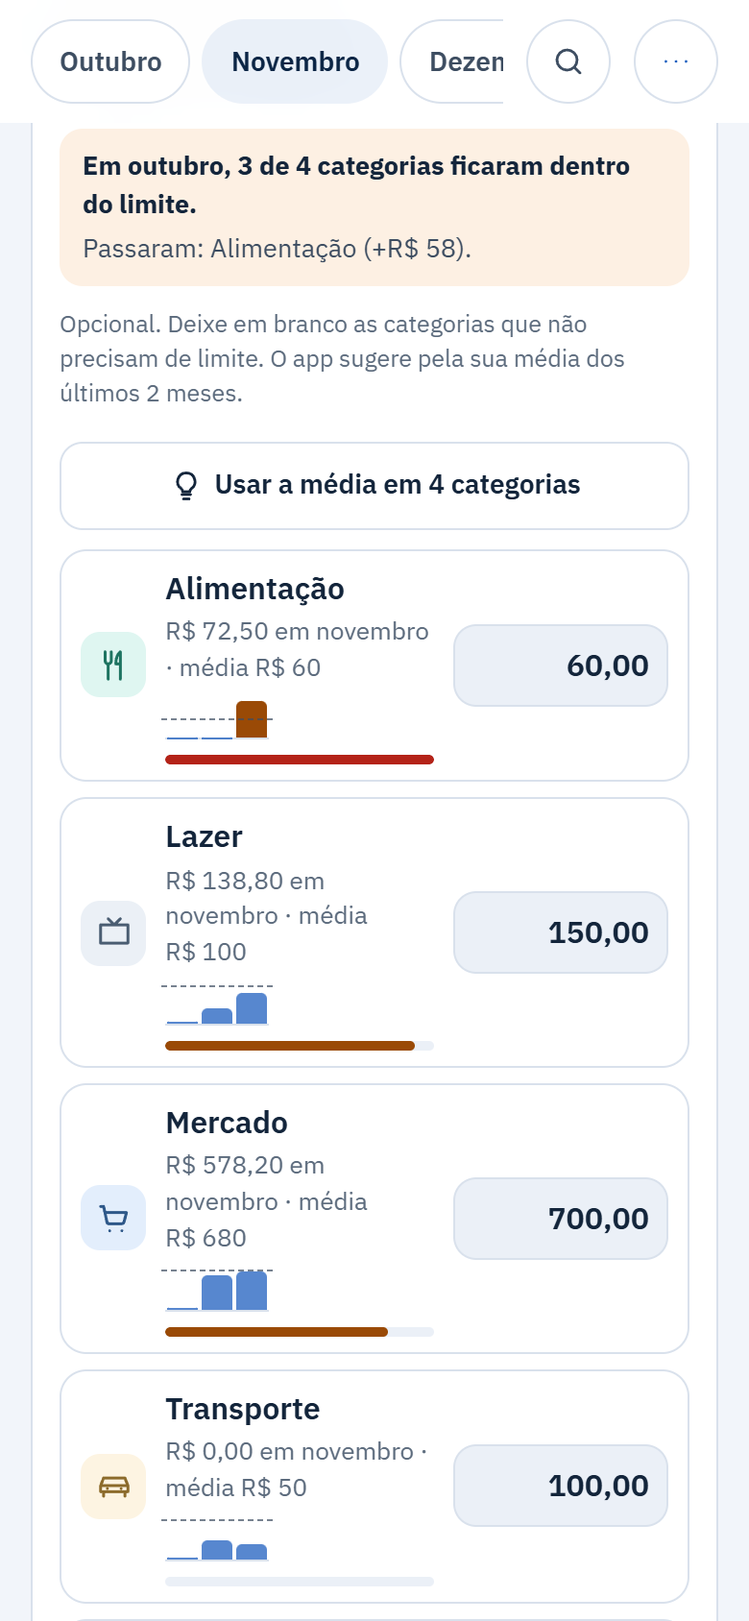
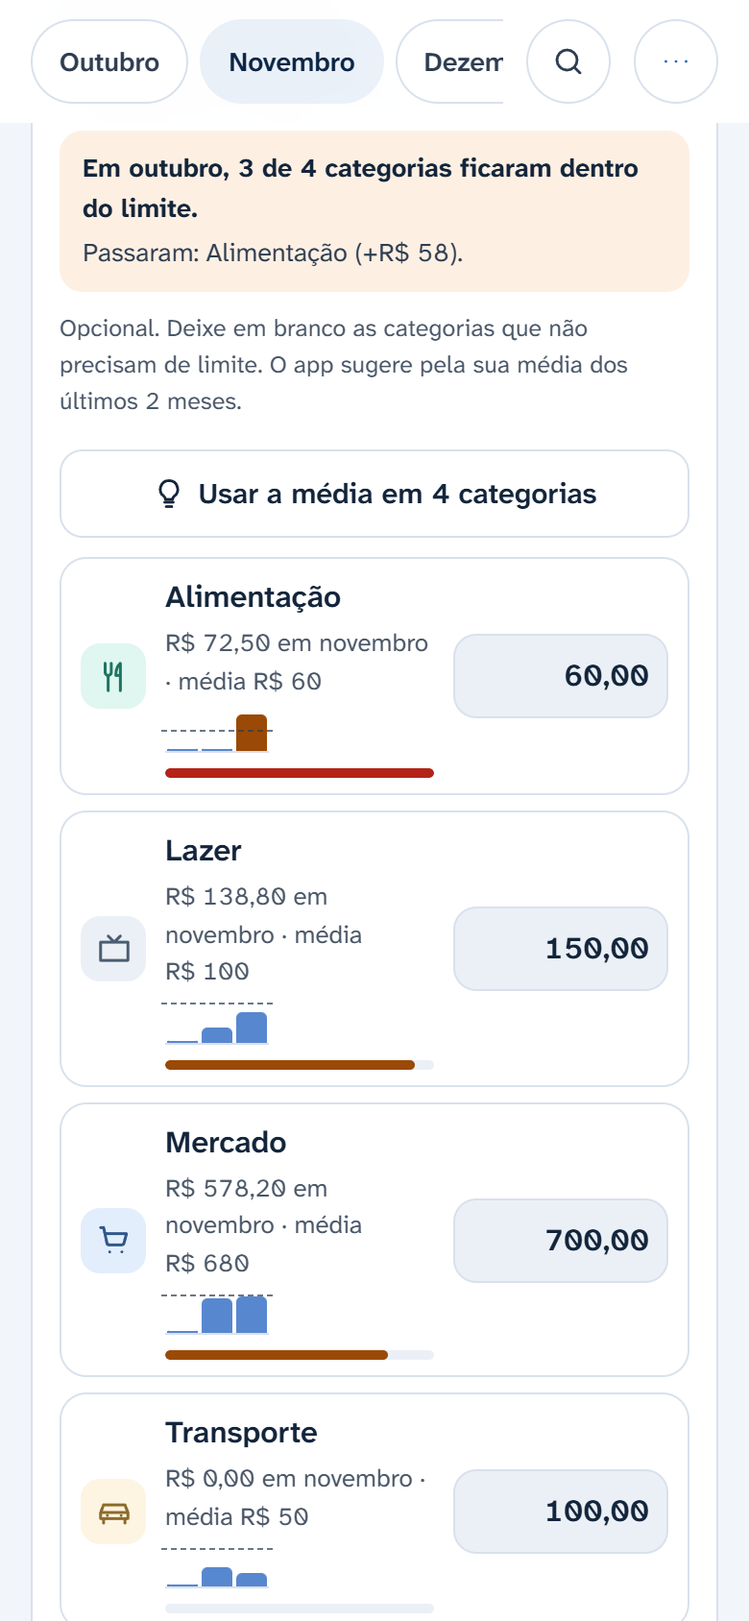
v261: letra mais fácil de ler e cinzas mais escuros (app e site); Iniciar sempre no alto, com categoria e km perguntados na primeira vez; menu Mais enxuto; um nome só para Lançar outro dia

diff --git a/js/app.js b/js/app.js
@@ -3756,7 +3756,7 @@ const GRUPOS_FERR = [
   { titulo: "Guardar e planejar", itens: [
     { id: "ordem", k: "atraso atrasada devendo negativo vermelho recomecar zerar virar pagina equilibrar recuperar reserva imprevisto buraco", ico: "cofre", t: "Pôr o mês em ordem", s: "Contas, atrasos, um jeito leve de recomeçar e sua reserva" },
     { id: "revisao", k: "fechar mes balanco resumo", ico: "grafico", t: "Revisão do mês", s: "3 passos: como foi, onde ajustar e quanto guardar" },
-    { id: "desafio", k: "economizar guardar semanal poupar cofrinho", ico: "alvo", t: "Desafio de economia", s: "Guarde um valor por semana e acompanhe" },
+    { id: "desafio", k: "economizar guardar semanal poupar cofrinho", ico: "alvo", t: "Cofrinho da semana", s: "Guarde um valor por semana e acompanhe" },
     { id: "calc", k: "ferias decimo terceiro juros parcelas rendimento investir divida simulador", ico: "calc", t: "Calculadoras", s: "Rendimento, parcelas, juros, férias e 13º" },
     { id: "dica", k: "habito economia ideia", ico: "luz", t: "Dicas para guardar dinheiro", s: "Um hábito pequeno por dia" }] },
   { titulo: "Entender e comemorar", itens: [
@@ -3780,17 +3780,16 @@ const HUBS = {
   conferir: { ico: "lupa", t: "Conferir meus lançamentos", s: "Tirar o que está repetido e dar categoria ao que ficou em \"Outros\"", k: "arrumar limpar corrigir revisar conferir repetido duplicado outros categoria transferencia",
     intro: "Deixe os lançamentos certos para os números do app baterem com a sua vida.", itens: ["arrumar", "revisar"] },
   analise: { ico: "rumo", t: "Como foi o seu mês", s: "Revisão, para onde foi o dinheiro, o ano e as assinaturas", k: "analise relatorio resumo revisao fechar balanco atraso ordem comparar evolucao ano assinaturas conquistas onde gastei",
-    intro: "Escolha o que você quer entender sobre o seu dinheiro.", itens: ["revisao", "graficos", "pof", "ordem", "ganhogasto", "desemp", "ano", "assin", "conq"] },
+    intro: "Escolha o que você quer entender sobre o seu dinheiro.", itens: ["revisao", "pof", "ano", "assin"] },
   baixar: { ico: "baixar", t: "Exportar e backup", s: "Relatório em Excel, PDF ou CSV e cópia de segurança", k: "excel pdf csv planilha exportar baixar backup restaurar seguranca",
     intro: "Leve os seus dados com você ou guarde uma cópia.", itens: ["btnExport", "copia"] },
   ajuda: { ico: "ajuda", t: "Ajuda", s: "Como usar, o que mudou e como falar com a gente", k: "ajuda duvida tutorial suporte novidades versao sugestao feedback problema",
     intro: "Dúvidas, novidades e sugestões.", itens: ["btnAjuda", "novidades", "btnSugerir"] },
 };
 const GRUPOS_MAIS = [
-  { titulo: "Seu dia a dia", ids: ["motorista", "mercado", "planos"] },
+  { titulo: "Seu dia a dia", ids: ["motorista", "mercado"] },
   { titulo: "Meu mês", ids: ["analise", "conferir", "msg"] },
-  { titulo: "Ferramentas", ids: ["veiculo", "casa", "calc", "desafio", "dica"], fechado: true },
-  { titulo: "Levar com você", ids: ["share", "baixar"], fechado: true },
+  { titulo: "Ferramentas", ids: ["calc", "share", "baixar"], fechado: true },
 ];
 const TODAS_FERR = () => [...GRUPOS_FERR.flatMap((g) => g.itens), ...Object.entries(HUBS).map(([id, h]) => ({ id, ...h }))];
 function hubTela(id) {
@@ -5595,6 +5594,8 @@ function htmlFraseMot({ m, hj, doDia, meta, alc, ritmo, regra, semContas, ativa 
   const comemora = !meta.coberto && doDia.ganho >= meta.brutoDia && S.metaBatida !== hj, cats_ = categoriasDoPerfil(motDados().perfil), catAtual = categoriaAtual();
   const catFixa = cats_.includes(motDados().perfil?.categoria), pn = painelAtual(m.painel, m.turnos), oleo = avisoOleo(pn?.odo, m.painel);
   const catsVis = [catAtual, ...cats_.filter((k) => k !== catAtual)].filter(Boolean).slice(0, 3), catsResto = cats_.filter((k) => !catsVis.includes(k));
+  const catHtml = `${cats_.length < 2 ? "" : catFixa ? `<details class="mot-cat-det"><summary>Categoria: <b>${esc(catAtual)}</b><span>Trocar</span></summary>${`<div class="ds-chips" role="group" aria-label="Categoria do seu carro">${catsVis.map((k) => `<button type="button" data-mot-cat="${esc(k)}" aria-pressed="${k === catAtual}">${esc(k)}</button>`).join("")}${catsResto.length ? `<select class="mot-cat-mais" data-mot-cat-mais aria-label="Outra categoria"><option value="">Outra</option>${catsResto.map((k) => `<option>${esc(k)}</option>`).join("")}</select>` : ""}</div>`}<small>Troque só se mudar de carro ou de categoria.</small></details>` : `<p class="mot-cat-dica">Em qual categoria o seu carro roda? Escolha uma vez: o app lembra.</p>${`<div class="ds-chips" role="group" aria-label="Categoria do seu carro">${catsVis.map((k) => `<button type="button" data-mot-cat="${esc(k)}" aria-pressed="${k === catAtual}">${esc(k)}</button>`).join("")}${catsResto.length ? `<select class="mot-cat-mais" data-mot-cat-mais aria-label="Outra categoria"><option value="">Outra</option>${catsResto.map((k) => `<option>${esc(k)}</option>`).join("")}</select>` : ""}</div>`}`}`, pnHtml = `${pn ? `<div class="mot-painel"><p>Painel do carro: <b>${odoTxt(pn.odo)} km</b><button type="button" class="link" id="motPainelMuda">Mudou? Atualizar</button></p><label class="mot-dia-odo" id="motOdoWrap" hidden>Km no painel agora<input id="motOdoIni" inputmode="numeric" maxlength="9" autocomplete="off" placeholder="ex.: ${odoTxt(pn.odo)}"></label><p class="mot-trip">Antes de sair, zere o hodômetro parcial (o &quot;trip&quot;) do carro. No fim do dia, ele mostra quantos km você rodou.</p>${oleo ? `<button type="button" class="mot-oleo ${oleo.nivel}" id="motOleo">${oleo.nivel === "passou" ? `Troca de óleo passou ${odoTxt(-oleo.falta) || 0} km. Trocou? Toque aqui.` : `Troca de óleo em ${odoTxt(oleo.falta)} km`}</button>` : `<button type="button" class="link mot-oleo-novo" id="motOleo">Avisar a troca de óleo</button>`}</div>` : `<label class="mot-dia-odo">Km no painel do carro <small>(só desta vez: depois o app lembra)</small><input id="motOdoIni" inputmode="numeric" maxlength="9" autocomplete="off" placeholder="ex.: 84.120"></label>`}`;
+  const precisaPergunta = (cats_.length >= 2 && !catFixa) || !pn;   // primeira jornada: categoria e km do painel são perguntados ao tocar em Iniciar
   if (comemora) { S.metaBatida = hj; vibra(40); }
   return `<section class="mot-dia cheia${comemora ? " comemora" : ""}" aria-label="Seu dia como motorista"><div class="mot-dia-topo"><small>${dataPorExtenso(hj)}</small><button type="button" class="mot-dia-pill" data-mot-sub="desafios">Desafios</button></div>${ativa ? "" : htmlPerguntaDia(m)}${compacto ? `<p class="mot-meta-linha ocultavel">${semContas ? "Cadastre as contas do mês para ter a meta de hoje." : meta.coberto ? "As contas do mês estão cobertas: hoje é sobra." : `Meta de hoje <b>${brl(meta.brutoDia)}</b>`}${regra ? ` · corridas de <b>${brl(regra.boa)}/km</b> ou mais` : ""}</p>` : `<h2 class="ocultavel">${f.titulo}</h2>`}
     ${compacto || (!acima && !doDia.ganho) ? "" : `<p class="ocultavel">${acima ? `Acima do seu ritmo normal, de ${brl(ritmo.ganhoMedioDia)} por dia. Faça o que der: o app mostra o caminho.` : f.sub}</p>`}
@@ -5603,10 +5604,11 @@ function htmlFraseMot({ m, hj, doDia, meta, alc, ritmo, regra, semContas, ativa 
     <button class="mot-dia-prog" type="button" id="motProg"><span class="t ocultavel"><b>Hoje: ${brl(doDia.ganho)}</b>${meta.coberto ? "" : `<span>de ${brl(meta.brutoDia)}</span>`}</span>${meta.coberto ? "" : `<span class="tbar"><i style="width:${pct}%"></i></span>`}</button>
     ${compacto ? "" : htmlSemanaMot(m, hj, meta)}
     ${compacto ? "" : htmlContasMot(semContas)}
-    <div class="mot-dia-base">${semIniciar ? `<button class="mot-dia-bt" type="button" id="motIrComecar">Começar a jornada</button>` : ativa ? `<button class="mot-dia-bt" type="button" id="motVoltaJornada">Voltar à jornada em andamento</button>` : `${cats_.length < 2 ? "" : catFixa ? `<details class="mot-cat-det"><summary>Categoria: <b>${esc(catAtual)}</b><span>Trocar</span></summary>${`<div class="ds-chips" role="group" aria-label="Categoria do seu carro">${catsVis.map((k) => `<button type="button" data-mot-cat="${esc(k)}" aria-pressed="${k === catAtual}">${esc(k)}</button>`).join("")}${catsResto.length ? `<select class="mot-cat-mais" data-mot-cat-mais aria-label="Outra categoria"><option value="">Outra</option>${catsResto.map((k) => `<option>${esc(k)}</option>`).join("")}</select>` : ""}</div>`}<small>Troque só se mudar de carro ou de categoria.</small></details>` : `<p class="mot-cat-dica">Em qual categoria o seu carro roda? Escolha uma vez: o app lembra.</p>${`<div class="ds-chips" role="group" aria-label="Categoria do seu carro">${catsVis.map((k) => `<button type="button" data-mot-cat="${esc(k)}" aria-pressed="${k === catAtual}">${esc(k)}</button>`).join("")}${catsResto.length ? `<select class="mot-cat-mais" data-mot-cat-mais aria-label="Outra categoria"><option value="">Outra</option>${catsResto.map((k) => `<option>${esc(k)}</option>`).join("")}</select>` : ""}</div>`}`}
-    ${pn ? `<div class="mot-painel"><p>Painel do carro: <b>${odoTxt(pn.odo)} km</b><button type="button" class="link" id="motPainelMuda">Mudou? Atualizar</button></p><label class="mot-dia-odo" id="motOdoWrap" hidden>Km no painel agora<input id="motOdoIni" inputmode="numeric" maxlength="9" autocomplete="off" placeholder="ex.: ${odoTxt(pn.odo)}"></label><p class="mot-trip">Antes de sair, zere o hodômetro parcial (o &quot;trip&quot;) do carro. No fim do dia, ele mostra quantos km você rodou.</p>${oleo ? `<button type="button" class="mot-oleo ${oleo.nivel}" id="motOleo">${oleo.nivel === "passou" ? `Troca de óleo passou ${odoTxt(-oleo.falta) || 0} km. Trocou? Toque aqui.` : `Troca de óleo em ${odoTxt(oleo.falta)} km`}</button>` : `<button type="button" class="link mot-oleo-novo" id="motOleo">Avisar a troca de óleo</button>`}</div>` : `<label class="mot-dia-odo">Km no painel do carro <small>(só desta vez: depois o app lembra)</small><input id="motOdoIni" inputmode="numeric" maxlength="9" autocomplete="off" placeholder="ex.: 84.120"></label>`}
+    <div class="mot-dia-base">${semIniciar ? `<button class="mot-dia-bt" type="button" id="motIrComecar">Começar a jornada</button>` : ativa ? `<button class="mot-dia-bt" type="button" id="motVoltaJornada">Voltar à jornada em andamento</button>` : compacto ? `<button class="mot-circ inicio" type="button" id="motIniciar"${precisaPergunta ? ' data-pergunta="1"' : ""}><span class="mc-play" aria-hidden="true"></span><b>Iniciar</b><span>jornada</span></button>${catFixa ? catHtml : ""}${pn ? pnHtml : ""}
+    ` : `${catHtml}
+    ${pnHtml}
     <button class="mot-circ inicio" type="button" id="motIniciar"><span class="mc-play" aria-hidden="true"></span><b>Iniciar</b><span>jornada</span></button>
-    `}${compacto ? `${htmlContasMot(semContas)}</div></section>` : `<div class="mot-dia-links"><button class="mot-dia-2" type="button" data-mot-sub="dia">Já rodou? Lançar o dia</button><button class="mot-dia-2" type="button" id="motVerMais">Ver meus ganhos</button><button class="mot-dia-2" type="button" data-mot-sub="recibo">Recibo para cliente</button><button class="mot-dia-2" type="button" data-mot-sub="prints">Lançar por prints</button><button class="mot-dia-2" type="button" data-mot-sub="anual">Resumo do ano (IR)</button></div></div></section>`}`;
+    `}${compacto ? `${htmlContasMot(semContas)}</div></section>` : `<div class="mot-dia-links"><button class="mot-dia-2" type="button" data-mot-sub="dia">Lançar outro dia</button><button class="mot-dia-2" type="button" id="motVerMais">Ver meus ganhos</button><button class="mot-dia-2" type="button" data-mot-sub="recibo">Recibo para cliente</button><button class="mot-dia-2" type="button" data-mot-sub="prints">Lançar por prints</button><button class="mot-dia-2" type="button" data-mot-sub="anual">Resumo do ano (IR)</button></div></div></section>`}`;
 }
 const htmlTresMot = (tit, hora, km, viagem, pe = "") => `<section class="mot-tres" aria-label="${tit}"><h3>${tit}</h3><div>${[["Por hora", hora], ["Por km", km], ["Por viagem", viagem]].map(([r, v]) => `<p><small>${r}</small><b class="ocultavel">${v === null ? "—" : brl(v)}</b></p>`).join("")}</div>${pe ? `<small class="ocultavel">${pe}</small>` : ""}</section>`;
 /** Quanto está rendendo: hoje, ou os últimos 7 dias enquanto hoje não tem jornada. */
@@ -6263,6 +6265,25 @@ function guardaGanhoAgora(host, { exigeGanho }) {
   mm.ativo.kmAgora = r.km > 0 ? r.km : null; mm.ativo.kmAgoraEm = r.km > 0 ? t : null;
   gravaMot(mm); vibra(15); return true;
 }
+/** Na primeira jornada: a categoria do carro e o km do painel, numa pergunta só. Depois disso, o Iniciar começa direto. */
+function perguntaAntesDeIniciar() {
+  const m = motDados(), cats_ = categoriasDoPerfil(m.perfil), atual = categoriaAtual(), pn = painelAtual(m.painel, m.turnos);
+  const precisaCat = cats_.length >= 2 && !cats_.includes(m.perfil?.categoria);
+  openDlg(`<h3>Antes de começar</h3><p class="hint">Só na primeira vez. Depois o app lembra.</p>
+    <form id="icForm" class="dlg-form" autocomplete="off">
+      ${precisaCat ? `<p class="ic-rot wide">Em qual categoria o seu carro roda?</p><div class="ds-chips wide" role="group" aria-label="Categoria">${cats_.map((k) => `<button type="button" data-ic-cat="${esc(k)}" aria-pressed="${k === atual}">${esc(k)}</button>`).join("")}</div>` : ""}
+      ${pn ? "" : `<label class="f wide">Km no painel do carro agora (opcional)<input class="in" id="icOdo" inputmode="numeric" maxlength="9" placeholder="ex.: 84.120"></label><p class="hint wide">Com ele, o app calcula os km rodados no fim do dia.</p>`}
+      <div class="actions wide"><button class="btn primary" type="submit" id="icOk">Iniciar jornada</button><button class="btn" type="button" data-close>Agora não</button></div>
+    </form>`);
+  let cat = atual;
+  $("dlgBody").querySelectorAll("[data-ic-cat]").forEach((b) => (b.onclick = () => { cat = b.dataset.icCat; $("dlgBody").querySelectorAll("[data-ic-cat]").forEach((x) => x.setAttribute("aria-pressed", String(x === b))); }));
+  $("icForm").addEventListener("submit", (e) => {
+    e.preventDefault();
+    const mm = motDados(), odo = odoNum($("icOdo")?.value);
+    gravaMot({ ...mm, perfil: mm.perfil ? { ...mm.perfil, categoria: cat || mm.perfil.categoria } : mm.perfil, ...(odo ? { painel: { ...(mm.painel || {}), odo, em: Date.now() } } : {}) });
+    $("dlg").close(); motEntrou = true; iniciarJornada(odo || pn?.odo || null); render(); scrollTo(0, 0);
+  });
+}
 function iniciarJornada(odoIni = null) {
   uso("jornada_iniciada"); motAba = "agora";
   const ini = Date.now();
@@ -6378,7 +6399,7 @@ function paneMot() {
       openDlg(`<h3>Mais opções</h3><p class="hint">Começou às ${hhmm(a.ini)}${a.categoria ? ` · ${esc(a.categoria)}` : ""}${gastosTot ? ` · ${brl(gastosTot)} em gastos` : ""}</p>
         ${tSemKm ? `<button class="ganho-falta mot-falta-km" type="button" id="motFaltaKm"><span class="tx"><b>Faltou o km de ${rotSemKm}</b><span>Toque para anotar agora.</span></span><span class="ir" aria-hidden="true">›</span></button>` : ""}
         <p class="mot-op-tit">Lançar</p>
-        <div class="mot-caixas">${caixa('id="motComida"', "talher", "Alimentação")}${caixa('data-mot-op="lancar"', "mais", "Outro gasto")}${caixa('data-mot-op="ler"', "camera", "Escanear", "nota ou QR code")}${caixa('id="motDiaEsq"', "agenda", "Outro dia", "esqueceu de lançar?")}${caixa('id="motPrints"', "imagem", "Por prints", "vários dias de uma vez")}</div>
+        <div class="mot-caixas">${caixa('id="motComida"', "talher", "Alimentação")}${caixa('data-mot-op="lancar"', "mais", "Outro gasto")}${caixa('data-mot-op="ler"', "camera", "Escanear", "nota ou QR code")}${caixa('id="motDiaEsq"', "agenda", "Lançar outro dia", "esqueceu de lançar?")}${caixa('id="motPrints"', "imagem", "Por prints", "vários dias de uma vez")}</div>
         <p class="mot-op-tit">Ver e ajustar</p>
         <div class="mot-caixas">${caixa('id="motDiasAnt"', "grafico", "Meus ganhos", "dias anteriores")}${caixa('id="motOdoOp"', "carro", "Km do painel", a.odoIni ? `ao começar: ${odoTxt(a.odoIni)}` : "anotar agora")}${caixa('id="motIrInicio"', "casa", "Ir para o Início")}</div>
         <div class="mot-op-fim"><button class="btn" type="button" data-close>Fechar</button><button class="link mot-descartar" type="button" id="motDescartar">Descartar esta jornada</button></div>`);
@@ -6446,6 +6467,7 @@ function paneMot() {
   if ($("mpRodei")) $("mpRodei").onclick = () => { diaParaLancar = $("mpRodei").dataset.dia; motEntra("dia"); diaParaLancar = ""; };
   if ($("mpFolga")) $("mpFolga").onclick = () => { S.prefs.folgas = [...(S.prefs.folgas || []), $("mpFolga").dataset.dia].slice(-60); salvaPrefs(); toast("Anotado: dia de folga."); render(); };
   if ($("motIniciar")) $("motIniciar").onclick = () => {
+    if ($("motIniciar").dataset.pergunta) return perguntaAntesDeIniciar();
     const digitado = odoNum($("motOdoIni")?.value), pn = painelAtual(motDados().painel, motDados().turnos);
     if (digitado && pn && digitado < pn.odo && !confirm(`O painel estava em ${odoTxt(pn.odo)} km. Usar ${odoTxt(digitado)} km mesmo assim?`)) return $("motOdoIni").focus();
     if (digitado) { const mm = motDados(); gravaMot({ ...mm, painel: { ...(mm.painel || {}), odo: digitado, em: Date.now() } }); }

diff --git a/js/novidades.js b/js/novidades.js
@@ -1,5 +1,6 @@
 /* O que mudou em cada versão, em palavras de quem usa o app. A tela "Novidades" mostra as últimas. */
 export const NOVIDADES = [
+  { versao: "261", itens: ["Mais fácil de ler: letra nova no app e no site, feita para leitura rápida (0 e O, 1 e l, 6 e 8 bem diferentes), um pouco maior, e os textos cinza mais escuros, para ler no sol e no tablet.", "Jornada: na aba Começar, sumiu o espaço azul vazio. Os atalhos aparecem logo abaixo do Iniciar.", "Jornada: o Iniciar fica sempre no alto. A categoria do carro e o km do painel são perguntados uma vez, quando você toca em Iniciar pela primeira vez.", "Menu Mais mais curto: sem itens repetidos. Como foi o seu mês ficou com 4 opções (revisão, para onde foi o dinheiro, o ano e as assinaturas). O que saiu do menu continua na busca, na lupa do topo.", "Lançar outro dia tem esse mesmo nome em todo lugar. O Desafio de economia virou Cofrinho da semana, para não confundir com os Desafios dos motoristas."] },
   { versao: "260", itens: ["Jornada em duas abas antes de começar: Começar (a meta de hoje numa linha e o botão Iniciar logo em cima) e Resumo e meta (a conta da meta, a semana, desafios e ajustes).", "Mais opções da jornada em caixas grandes, com nome e explicação, mais fáceis de ler e de tocar no celular e no tablet.", "Corrigido: na pergunta \"Você rodou?\", o botão de folga ficava branco sem dar para ler."] },
   { versao: "259", itens: ["Novo na Jornada: Lançar por prints. Tire o print da tela de ganhos de cada app, um dia de cada vez, e depois escolha todos os prints de uma vez. O app lê o dia, o app e o valor (e os km e os pedidos, quando aparecem), você confere e lança tudo.", "No tablet com os apps lado a lado, um print só basta: o app separa cada app. Na primeira vez, diga qual app fica em cada lado; ele lembra.", "Pelo Compartilhar do celular também funciona: na prévia do print, toque em Compartilhar e escolha o Meus Gastos.", "O que já foi lançado naquele dia e app não entra de novo."] },
   { versao: "258", itens: ["Jornada mais fácil de usar: embaixo do cronômetro ficam quadradinhos com Abastecer, Pedágio, Lançar outro dia e Mais.", "Esqueceu de lançar os ganhos de algum dia? A jornada avisa quantos dias da semana estão sem ganho. Toque, escolha o dia e salve. Depois de salvar, o app já abre o próximo dia que falta.", "Mais opções da jornada também viraram quadradinhos, separados em Lançar e Ver e ajustar.", "Esqueceu a jornada aberta? Se ela ficar pausada por 6 horas ou mais, ou aberta por mais de 16 horas, a tela avisa e oferece Encerrar e lançar os ganhos.", "Lançar o dia: as horas trabalhadas têm botões prontos (4h, 6h, 8h, 10h, 12h)."] },

diff --git a/css/tech.css b/css/tech.css
@@ -14,7 +14,7 @@
 }
 :root[data-tema="claro"]{
   /* A mesma marca no tema claro: branco, azul-marinho e o mesmo cartão azul. */
-  --bg:#f2f5fa; --surface:#fff; --surface-2:#f5f8fc; --sunk:#ebf0f7; --border:#d9e1ec; --ink:#13253b; --ink-2:#3d4d61; --muted:#5c6b7d;
+  --bg:#f2f5fa; --surface:#fff; --surface-2:#f5f8fc; --sunk:#ebf0f7; --border:#d9e1ec; --ink:#13253b; --ink-2:#2e3d51; --muted:#4a5768;
   --series:#1f5fbf; --series-soft:rgba(31,95,191,.09); --on-series:#fff; --brand:#0b2545; --navy:#0b2545; --navy-2:#13315c; --navy-3:#1b4079;
   --hero:linear-gradient(135deg,#0b3a8f 0%,#1550c8 55%,#2a6cf0 100%); --hero-ink:#fff; --btn:#0b2545; --on-btn:#fff; --glass:rgba(255,255,255,.96);
 }
@@ -161,7 +161,7 @@ button,a,summary,.btn{touch-action:manipulation}
 /* v256: no tema claro (o padrão), a Jornada e o Desafio também são claros, como num app de banco.
    Fica azul só o quadro do topo (a meta do dia); o resto vem em cartões brancos sobre o cinza-claro. */
 :root[data-tema="claro"] .wrap[data-tab="mot"] #listas{background:var(--bg);border-color:var(--border);
-  --surface:#fff;--surface-2:#f5f8fc;--sunk:#ebf0f7;--ink:#13253b;--ink-2:#3d4d61;--muted:#5c6b7d;--border:#d9e1ec;--grid:rgba(11,37,69,.07);--axis:rgba(11,37,69,.28);
+  --surface:#fff;--surface-2:#f5f8fc;--sunk:#ebf0f7;--ink:#13253b;--ink-2:#2e3d51;--muted:#4a5768;--border:#d9e1ec;--grid:rgba(11,37,69,.07);--axis:rgba(11,37,69,.28);
   --good:#157347;--good-soft:#e7f4ec;--bad:#b42318;--bad-soft:#fdecea;--warn:#9a4a06;--warn-soft:#fdf0e3;
   --series:#1f5fbf;--series-soft:rgba(31,95,191,.09);--on-series:#fff;color:var(--ink)}
 :root[data-tema="claro"] #app[data-view="listas"][data-tab="mot"] #listas,:root[data-tema="claro"] body:has(#app[data-view="listas"][data-tab="mot"]){background:var(--bg)}
@@ -386,3 +386,12 @@ button,a,summary,.btn{touch-action:manipulation}
 /* quadradinhos: nome mais escuro e maior, para ler no sol */
 .mot-tile{color:var(--ink);font-size:14px;font-weight:600}
 :root[data-tema="escuro"] .mot-caixa .ic-c{background:rgba(95,212,255,.12);color:#5fd4ff}
+
+
+/* v261: leitura em primeiro lugar. Texto na Atkinson Hyperlegible Next (feita para ler fácil: 0/O, 1/l, 6/8 bem diferentes),
+   um pouco maior, e os cinzas mais escuros no tema claro (sumiam no sol e no tablet). */
+:root{--sans:"Atkinson Hyperlegible Next","IBM Plex Sans",system-ui,-apple-system,"Segoe UI",sans-serif}
+body{font-size:15px;line-height:1.5}
+.hint,small{letter-spacing:.005em}
+/* aba Começar: o quadro azul acaba onde acaba o conteúdo (antes ocupava uma tela inteira e deixava um vão azul) */
+.mot-comecar .mot-dia.cheia{min-height:0}

diff --git a/site/index.html b/site/index.html
@@ -29,19 +29,19 @@
 <meta name="apple-mobile-web-app-title" content="Meus Gastos">
 <title>Meus Gastos</title>
 <link rel="preconnect" href="https://fonts.googleapis.com">
-<link rel="stylesheet" href="https://fonts.googleapis.com/css2?family=IBM+Plex+Sans:wght@400;500;600;700&family=IBM+Plex+Mono:wght@400;500&family=Bricolage+Grotesque:opsz,wght@12..96,700;12..96,800&family=JetBrains+Mono:wght@500;700&display=swap">
+<link rel="stylesheet" href="https://fonts.googleapis.com/css2?family=Atkinson+Hyperlegible+Next:wght@400;500;600;700;800&family=IBM+Plex+Sans:wght@400;500;600;700&family=IBM+Plex+Mono:wght@400;500&family=Bricolage+Grotesque:opsz,wght@12..96,700;12..96,800&family=JetBrains+Mono:wght@500;700&display=swap">
 <style>
 /* Layout: abertura em azul-marinho com um exemplo do app que responde ao toque; depois uma vitrine
    em que o texto rola à esquerda e a tela do celular, fixa à direita, troca junto. Tudo alinhado à esquerda. */
 :root{
   /* O mesmo visual do app: claro, sério, azul-marinho de banco, IBM Plex Sans. */
-  --bg:#f3f5f8; --surface:#ffffff; --sunk:#e9eef4; --ink:#13253b; --ink-2:#3e5068; --muted:#5c6b7d; --line:#dde3ea;
+  --bg:#f3f5f8; --surface:#ffffff; --sunk:#e9eef4; --ink:#13253b; --ink-2:#2e3d51; --muted:#4a5768; --line:#dde3ea;
   --band:#0b2545; --band-2:#123a66; --band-ink:#ffffff; --band-mute:#b7c7da;
   --accent:#0b2545; --accent-ink:#ffffff; --accent-soft:#e8eef8; --luz:#8fc0ff; --link:#1e5fbf;
   --good:#157347; --good-soft:#e7f4ec; --warn:#9a4a06; --warn-soft:#fdf0e3; --bad:#b42318; --bad-soft:#fdecea;
   --frame:#13253b; --shadow:0 18px 40px rgba(11,37,69,.14); --tile:#0b2545; --tile-ink:#ffffff;
   --display:"IBM Plex Sans",system-ui,-apple-system,"Segoe UI",sans-serif;
-  --sans:"IBM Plex Sans",system-ui,-apple-system,"Segoe UI",sans-serif;
+  --sans:"Atkinson Hyperlegible Next","IBM Plex Sans",system-ui,-apple-system,"Segoe UI",sans-serif;
   --mono:"IBM Plex Mono",ui-monospace,Menlo,Consolas,monospace;
   color-scheme:light;
 }

diff --git a/site/privacidade.html b/site/privacidade.html
@@ -9,12 +9,12 @@
 <link rel="canonical" href="https://meugastos.com.br/site/privacidade.html">
 <title>Política de privacidade · Meus Gastos</title>
 <link rel="preconnect" href="https://fonts.googleapis.com">
-<link rel="stylesheet" href="https://fonts.googleapis.com/css2?family=IBM+Plex+Sans:wght@400;500;600;700&display=swap">
+<link rel="stylesheet" href="https://fonts.googleapis.com/css2?family=Atkinson+Hyperlegible+Next:wght@400;500;600;700;800&family=IBM+Plex+Sans:wght@400;500;600;700&display=swap">
 <style>
 /* Mesmo visual do app: claro, azul-marinho, IBM Plex Sans. */
 :root{--bg:#f3f5f8;--surface:#ffffff;--ink:#13253b;--ink-2:#3e5068;--muted:#5c6b7d;--line:#dde3ea;--accent:#0b2545;--luz:#1e5fbf;--navy:#0b2545;color-scheme:light}
 *{box-sizing:border-box}
-body{margin:0;background:var(--bg);color:var(--ink);font-family:"IBM Plex Sans",system-ui,-apple-system,"Segoe UI",sans-serif;font-size:16.5px;line-height:1.6}
+body{margin:0;background:var(--bg);color:var(--ink);font-family:"Atkinson Hyperlegible Next","IBM Plex Sans",system-ui,-apple-system,"Segoe UI",sans-serif;font-size:16.5px;line-height:1.6}
 a{color:var(--luz)}
 :focus-visible{outline:2px solid var(--accent);outline-offset:3px;border-radius:6px}
 header{background:var(--navy);color:#fff} header a{color:#fff}

diff --git a/site/termos.html b/site/termos.html
@@ -9,12 +9,12 @@
 <link rel="canonical" href="https://meugastos.com.br/site/termos.html">
 <title>Termos de uso · Meus Gastos</title>
 <link rel="preconnect" href="https://fonts.googleapis.com">
-<link rel="stylesheet" href="https://fonts.googleapis.com/css2?family=IBM+Plex+Sans:wght@400;500;600;700&display=swap">
+<link rel="stylesheet" href="https://fonts.googleapis.com/css2?family=Atkinson+Hyperlegible+Next:wght@400;500;600;700;800&family=IBM+Plex+Sans:wght@400;500;600;700&display=swap">
 <style>
 /* Mesmo visual do app: claro, azul-marinho, IBM Plex Sans. */
 :root{--bg:#f3f5f8;--surface:#ffffff;--ink:#13253b;--ink-2:#3e5068;--muted:#5c6b7d;--line:#dde3ea;--accent:#0b2545;--luz:#1e5fbf;--navy:#0b2545;color-scheme:light}
 *{box-sizing:border-box}
-body{margin:0;background:var(--bg);color:var(--ink);font-family:"IBM Plex Sans",system-ui,-apple-system,"Segoe UI",sans-serif;font-size:16.5px;line-height:1.6}
+body{margin:0;background:var(--bg);color:var(--ink);font-family:"Atkinson Hyperlegible Next","IBM Plex Sans",system-ui,-apple-system,"Segoe UI",sans-serif;font-size:16.5px;line-height:1.6}
 a{color:var(--luz)}
 :focus-visible{outline:2px solid var(--accent);outline-offset:3px;border-radius:6px}
 header{background:var(--navy);color:#fff} header a{color:#fff}

diff --git a/index.html b/index.html
@@ -28,7 +28,7 @@ try { var L = localStorage.getItem("cg-letra"); if (L === "grande" || L === "mai
 <meta name="apple-mobile-web-app-capable" content="yes">
 <meta name="apple-mobile-web-app-title" content="Meus Gastos">
 <link rel="preconnect" href="https://fonts.googleapis.com">
-<link rel="stylesheet" href="https://fonts.googleapis.com/css2?family=Bricolage+Grotesque:opsz,wght@12..96,600;12..96,700;12..96,800&family=IBM+Plex+Sans:wght@400;500;600;700&family=IBM+Plex+Mono:wght@400;500&family=JetBrains+Mono:wght@500;700&display=swap">
+<link rel="stylesheet" href="https://fonts.googleapis.com/css2?family=Atkinson+Hyperlegible+Next:wght@400;500;600;700;800&family=Bricolage+Grotesque:opsz,wght@12..96,600;12..96,700;12..96,800&family=IBM+Plex+Sans:wght@400;500;600;700&family=IBM+Plex+Mono:wght@400;500&family=JetBrains+Mono:wght@500;700&display=swap">
 <link rel="stylesheet" href="css/style.css">
 <link rel="stylesheet" href="css/tech.css">
 <script src="https://cdn.jsdelivr.net/npm/@supabase/supabase-js@2/dist/umd/supabase.min.js" defer></script>

diff --git a/sw.js b/sw.js
@@ -1,7 +1,7 @@
 // Service worker: guarda os arquivos do app para abrir na hora, com ou sem sinal, e funcionar como app instalado.
 // Os dados (Supabase) sempre vêm da internet; sem conexão, o app usa a cópia e a fila do aparelho (js/store.js, comFila).
 // Ao mudar arquivos, aumente a VERSAO: é ela que faz os celulares baixarem a versão nova.
-const VERSAO = "meus-gastos-v260";
+const VERSAO = "meus-gastos-v261";
 const ARQUIVOS = [
   "./", "index.html", "css/style.css", "css/tech.css", "manifest.webmanifest",
   "js/app.js", "js/calc.js", "js/store.js", "js/excel.js", "js/leitor.js", "js/etiqueta.js", "js/notamercado.js", "js/qr.js", "js/extrato.js", "js/config.js", "js/voz.js", "js/extras.js", "js/conta.js", "js/escuta.js", "js/extratopdf.js", "js/motorista.js", "js/erros.js", "js/uso.js", "js/semana.js", "js/chat.js", "js/recibo.js", "js/anual.js", "js/prints.js", "js/ganhogasto.js", "js/novidades.js", "js/arrumar.js", "js/paraondefoi.js", "js/casalvisao.js",

diff --git a/js/config.js b/js/config.js
@@ -31,4 +31,4 @@ export const PLAY_PACOTE = "";
 // a pessoa nem sempre acha onde baixar. O código fica guardado; para religar, troque para true.
 export const IMPORTA_EXTRATO = false;
 
-export const APP_VERSAO = "260";
+export const APP_VERSAO = "261";

diff --git a/PAINEL.md b/PAINEL.md
@@ -22,7 +22,8 @@ Como usar: abra este arquivo no começo de cada dia. Quando terminar um item, tr
   - v252: testes de tela automáticos (`npm run telas`, 17 verificações) que abrem o app e fazem os caminhos de todo dia; os números do Início, do Planejar e da Jornada batem.
   - v253: caixas de aviso legíveis na Jornada no tema claro; testes de tela agora são 21 (Contas fixas, Cartões, Ganhos e tema claro incluídos).
   - v254 (pronta, falta publicar): menu de baixo com Mercado (Mais no topo); Extrato em partes (Meus, Casal, Contas fixas); categoria e km do painel só uma vez; aviso de troca de óleo; Desafio mais colorido; a Conversa do desafio saiu do app.js para js/chat.js.
-  - v260 (16/11, pronta, falta publicar): pedido do dono. Jornada parada em duas abas (Começar enxuta com Iniciar no alto e quadradinhos; Resumo e meta com o resto); Mais opções em caixas grandes (2 por linha no celular, 3 no tablet); botão de folga legível; quadradinhos com nome mais escuro.
+  - v261 (16/11, pronta, falta publicar): foco em uso. Letra do texto Atkinson Hyperlegible Next (app e site), texto base 15px, cinzas mais escuros no claro (--ink-2 #2e3d51, --muted #4a5768); sem o vão azul na aba Começar; fotos do site refeitas. Também: Iniciar sempre no alto, categoria e km perguntados na primeira vez ao tocar em Iniciar (perguntaAntesDeIniciar); menu Mais enxuto (hub Como foi o seu mês com 4 itens; Meus planos, Custo do carro, Custo da casa, Hora, Dicas e Cofrinho fora do menu, mas na busca); um nome só: Lançar outro dia. Uso real (eventos_uso, 60 dias, 12 aparelhos): Início, Extrato, Jornada e Lançar; ferramentas quase sem uso. Próximo item de uso: Lançar mais curto (valor, categoria, Lançar; o resto recolhido).
+  - v260 (16/11, publicada): pedido do dono. Jornada parada em duas abas (Começar enxuta com Iniciar no alto e quadradinhos; Resumo e meta com o resto); Mais opções em caixas grandes (2 por linha no celular, 3 no tablet); botão de folga legível; quadradinhos com nome mais escuro.
   - v259 (15/11, publicada): Lançar por prints (js/prints.js): vários prints de uma vez, tablet com apps lado a lado dividido em partes, dia/app/valor/km/pedidos lidos, lembra o app de cada lado, não repete o que já foi lançado; também pelo Compartilhar. Testado com os prints reais do dono (Uber R$ 61,18; R$ 129,03 com 61,7 km e 4 pedidos; R$ 57,10). Plano do app Android com bolinha em docs/plano-android-bolinha.md. Etapa 1 feita no ramo `android` (pasta android/, o GitHub monta o APK e publica em Releases como bolinha-teste-N): falta o dono instalar no tablet e ver se o print sai normal ou preto na Uber, 99 e inDrive.
   - v258 (15/11, publicada): pedido do dono pelo celular. Jornada com quadradinhos (Abastecer, Pedágio, Lançar outro dia, Mais); aviso "N dias desta semana sem ganho"; Lançar o dia mostra os dias que faltam e segue para o próximo depois de salvar (`diasSemGanho` em js/motorista.js); Mais opções em quadradinhos. Aviso de jornada esquecida (`jornadaEsquecida`: pausada 6h+ ou aberta 16h+) com Encerrar e lançar; horas prontas no Lançar o dia.
   - v257 (15/11, publicada): Resumo do ano do motorista (IR, MEI, contador) em js/anual.js, com PDF, planilha e WhatsApp; fotos do site refeitas no claro (script `node scripts/fotos-site.mjs`); site sem a promessa de importar extrato do cartão (está desligado no app desde a v159).
